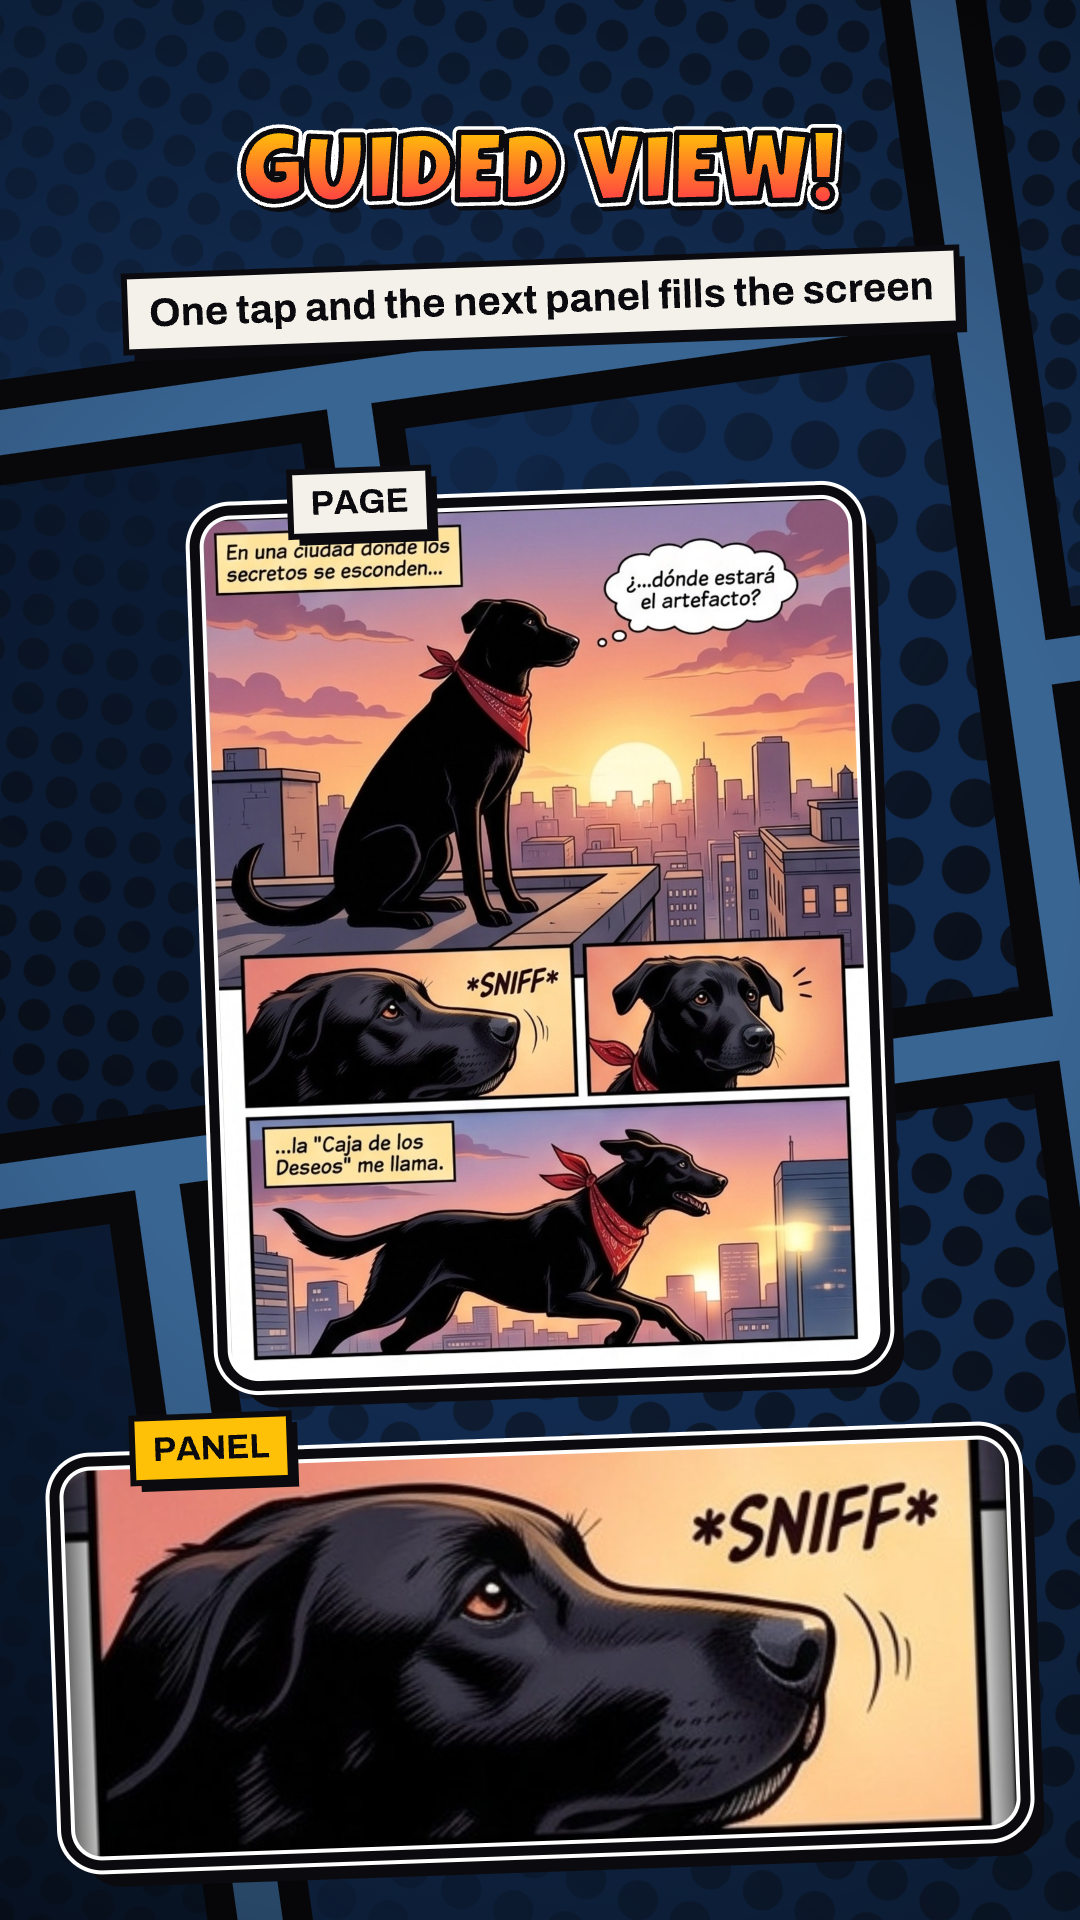
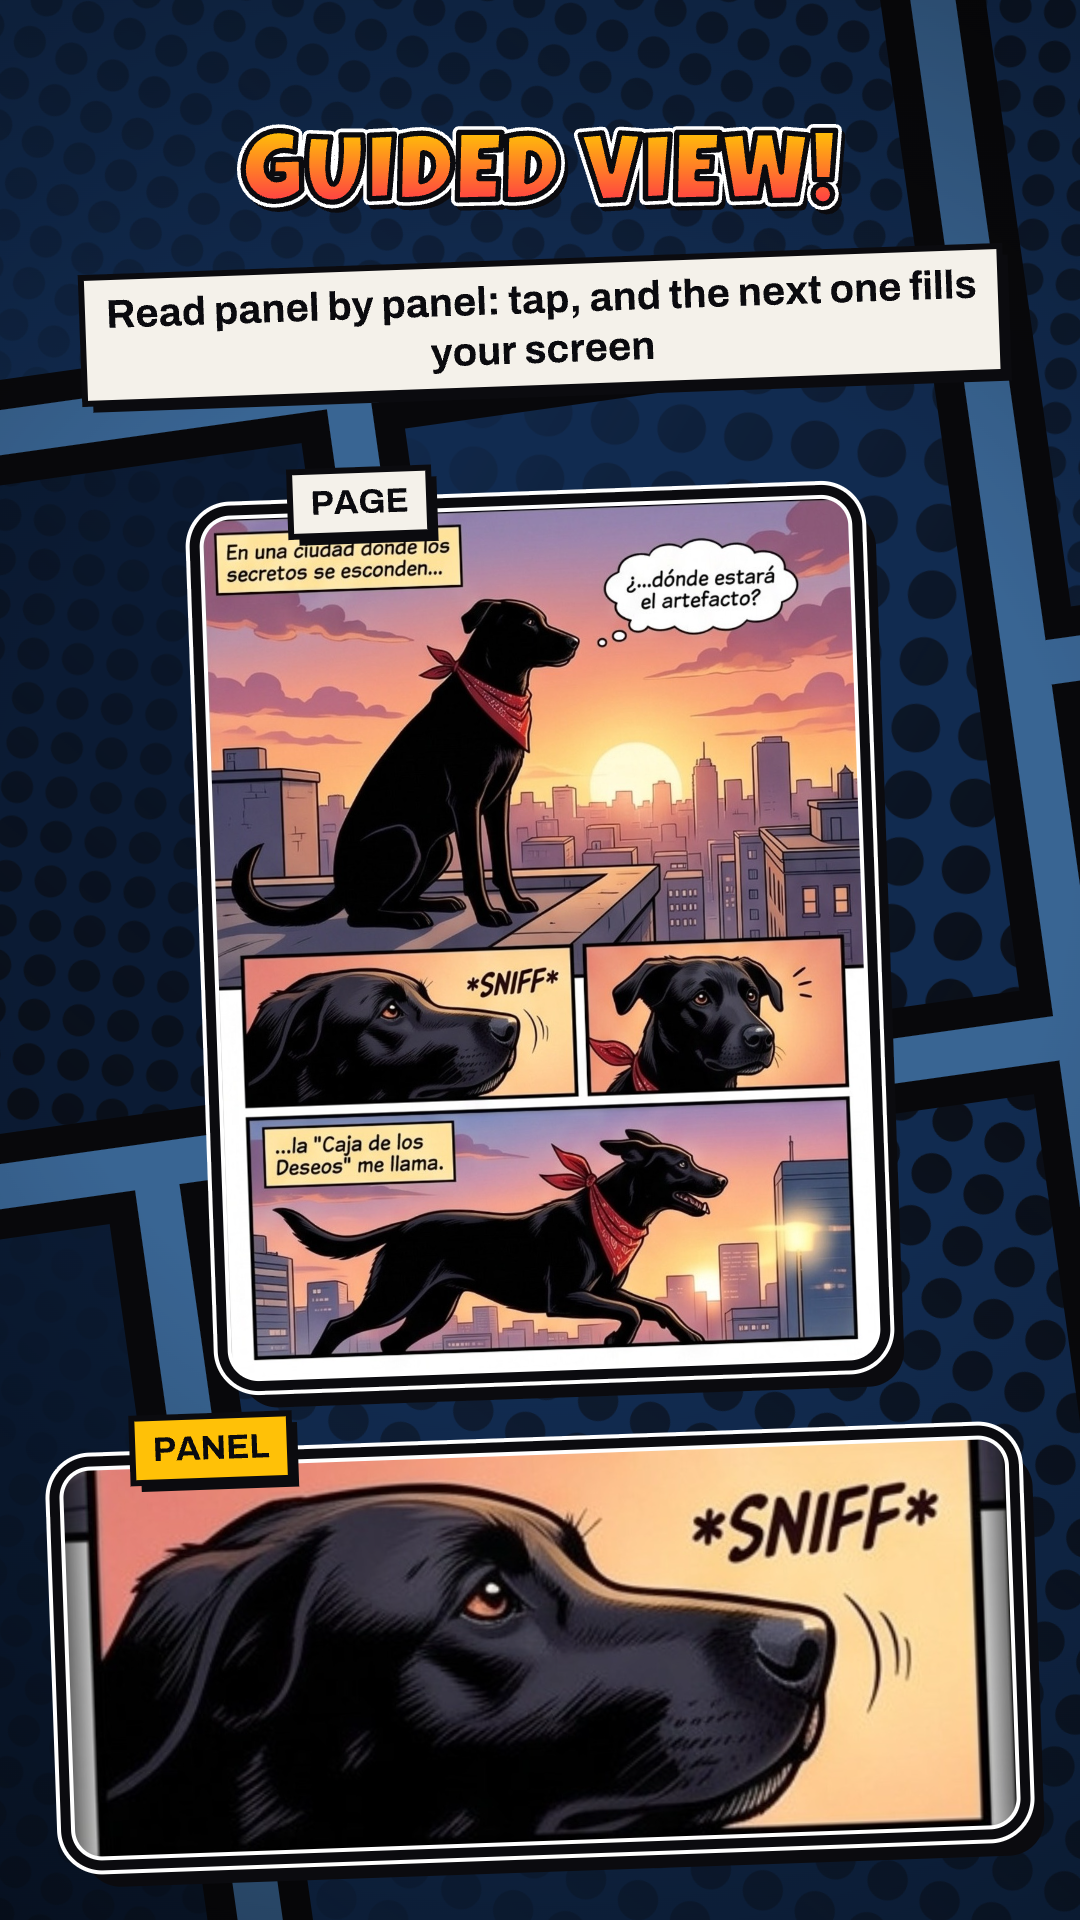
Give the store captions a human voice and drop the details shot
Every title and caption now reads like a sentence someone would say
instead of a feature list, and the Details section shot leaves the phone
set: at store-card size a settings list sells nothing.

Claude-Session: https://claude.ai/code/session_01EMXWQwmVKSLwBJMKXXfnNE

Changed region(s): [[0.0611, 0.125, 0.9472, 0.2188]]

diff --git a/tools/store_assets/screenshots.py b/tools/store_assets/screenshots.py
@@ -21,28 +21,26 @@ TABLET = (2560, 1440)
 LANGS = ("en-US", "es-ES")
 
 SHOTS = [
-    ("phone", "bubbles", {"en-US": ("BIGGER BUBBLES!", "Balloons grow on the page, no more squinting at tiny print"),
-                          "es-ES": ("¡BOCADILLOS XL!", "Los bocadillos crecen en la página y se acabó forzar la vista")}),
-    ("phone", "guided", {"en-US": ("GUIDED VIEW!", "One tap and the next panel fills the screen"),
-                         "es-ES": ("¡VIÑETA A VIÑETA!", "Un toque y la siguiente viñeta llena la pantalla")}),
-    ("phone", "library", {"en-US": ("YOUR SHELF!", "Your comics folder becomes a shelf, grouped by series"),
-                          "es-ES": ("¡TU ESTANTERÍA!", "Tu carpeta de cómics se vuelve una estantería, por series")}),
-    ("phone", "pagelook", {"en-US": ("OLD SCANS, FIXED", "Four page looks rescue a dark or yellowed scan"),
-                           "es-ES": ("ESCANEOS SALVADOS", "Cuatro aspectos de página rescatan un escaneo oscuro o amarillo")}),
-    ("phone", "search", {"en-US": ("FIND IT FAST", "Ask for a writer, a series or a year and the shelf answers"),
-                         "es-ES": ("ENCUÉNTRALO YA", "Pide un guionista, una serie o un año y la estantería responde")}),
-    ("phone", "detail", {"en-US": ("RATE IT, FIX IT", "Stars, a summary and details you can correct, per comic"),
-                         "es-ES": ("VALORA Y CORRIGE", "Estrellas, resumen y una ficha que puedes corregir, por cómic")}),
-    ("phone", "settings", {"en-US": ("YOUR LOOK", "Black, graphite or paper, and seven accent colours"),
-                           "es-ES": ("A TU GUSTO", "Negro, grafito o papel, y siete colores de acento")}),
-    ("tablet", "spread", {"en-US": ("TWO PAGES, AS PRINTED", "Tablets and unfolded screens get the double-page spread"),
-                          "es-ES": ("DOBLE PÁGINA", "Como en papel, en tablets y pantallas desplegadas")}),
-    ("tablet", "bubbles-spread", {"en-US": ("BIGGER BUBBLES!", "The lettering grows across the double page too"),
-                                  "es-ES": ("¡BOCADILLOS XL!", "La rotulación también crece en la doble página")}),
-    ("tablet", "guided-spread", {"en-US": ("GUIDED VIEW ON SPREADS", "Panel by panel across the gutter, on either page"),
-                                 "es-ES": ("VIÑETA A VIÑETA EN LA DOBLE", "Viñeta a viñeta a través del pliegue, en una página o en la otra")}),
-    ("tablet", "library", {"en-US": ("A WALL OF COVERS", "Your whole collection at a glance on the big screen"),
-                           "es-ES": ("PARED DE PORTADAS", "Toda tu colección de un vistazo en la pantalla grande")}),
+    ("phone", "bubbles", {"en-US": ("BIGGER BUBBLES!", "Small lettering? Kapow makes the balloons bigger, right on the page"),
+                          "es-ES": ("¡BOCADILLOS XL!", "¿Letra pequeña? Kapow agranda los bocadillos ahí mismo, en la página")}),
+    ("phone", "guided", {"en-US": ("GUIDED VIEW!", "Read panel by panel: tap, and the next one fills your screen"),
+                         "es-ES": ("¡VIÑETA A VIÑETA!", "Lee viñeta a viñeta: un toque y la siguiente ocupa toda la pantalla")}),
+    ("phone", "library", {"en-US": ("YOUR SHELF!", "Point Kapow at your folder and it turns into a shelf, series by series"),
+                          "es-ES": ("¡TU ESTANTERÍA!", "Señala tu carpeta y Kapow la convierte en una estantería, serie por serie")}),
+    ("phone", "pagelook", {"en-US": ("OLD SCANS, FIXED", "That yellowed scan from 1952? One tap and it reads like new"),
+                           "es-ES": ("PÁGINAS COMO NUEVAS", "¿Ese escaneo amarillento de 1952? Un toque y se lee como nuevo")}),
+    ("phone", "search", {"en-US": ("FIND IT FAST", "Type a series, a writer or a year and the right issues show up"),
+                         "es-ES": ("ENCUÉNTRALO YA", "Escribe una serie, un guionista o un año y salen justo esos números")}),
+    ("phone", "settings", {"en-US": ("YOUR LOOK", "Pure black for OLED, graphite or paper, plus the accent you like"),
+                           "es-ES": ("A TU GUSTO", "Negro puro para OLED, grafito o papel, y el acento que más te guste")}),
+    ("tablet", "spread", {"en-US": ("TWO PAGES, AS PRINTED", "On a tablet or an open foldable you read the spread, just like paper"),
+                          "es-ES": ("DOBLE PÁGINA", "En tablet o con el plegable abierto lees la doble página, como en papel")}),
+    ("tablet", "bubbles-spread", {"en-US": ("BIGGER BUBBLES!", "Bigger balloons on the spread too, no need to lean in"),
+                                  "es-ES": ("¡BOCADILLOS XL!", "También en la doble página los bocadillos crecen, sin acercarte a la pantalla")}),
+    ("tablet", "guided-spread", {"en-US": ("GUIDED VIEW ON SPREADS", "Panel by panel across both pages, whichever side the story is on"),
+                                 "es-ES": ("VIÑETA A VIÑETA", "Viñeta a viñeta por las dos páginas, esté donde esté la historia")}),
+    ("tablet", "library", {"en-US": ("A WALL OF COVERS", "The big screen shows your whole collection at a glance"),
+                           "es-ES": ("PARED DE PORTADAS", "En la pantalla grande cabe toda tu colección de un vistazo")}),
 ]
 COMPARE_SHOTS = {
     "bubbles": {"en-US": ("BEFORE", "AFTER"), "es-ES": ("ANTES", "DESPUÉS")},

diff --git a/docs/release.md b/docs/release.md
@@ -139,7 +139,7 @@ panel on the page-grid stage with a shout title and a caption box, sized
 capture scaled to a fixed width on the right). Copy for every shot is the
 `SHOTS` table; the order of the table is the store order, chosen in the
 2026-09-06 conversion review (differentiators first: bubbles, Guided View,
-shelf, page look, search, details, look; tablets: spread, bubbles on the
+shelf, page look, search, look; tablets: spread, bubbles on the
 spread, Guided View on the spread, wall of covers).
 
 Shots listed in `COMPARE_SHOTS` are stacked pairs with two tagged panels
